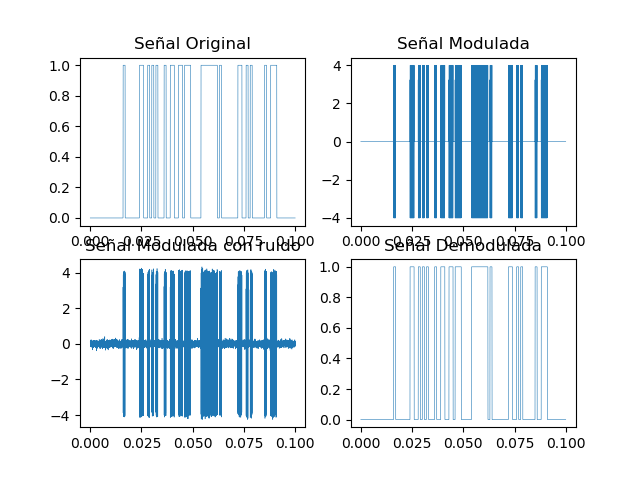
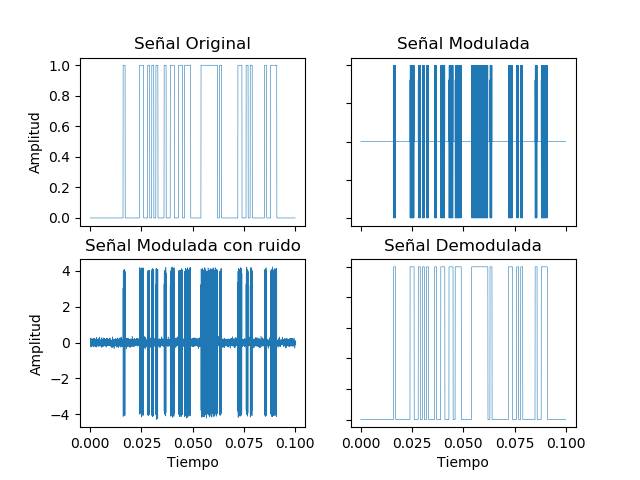
plot

diff --git a/lab4.py b/lab4.py
@@ -18,6 +18,7 @@ from scipy.fftpack import fft, ifft, fftshift
 import warnings 
 from scipy import integrate
 from math import pi
+from matplotlib.ticker import NullFormatter
 warnings.filterwarnings('ignore')
 
 
@@ -146,20 +147,45 @@ def graphAll(binarySignal,time2,modulated,demodulated,modulatedWithNoise,datos):
 	graph4_x, graph4_y = transformData(demodulated,bp,datos)
 	graph4.append(graph4_x)
 	graph4.append(graph4_y)
-
-
+	"""
+	plt.figure(1)
 	plt.subplot(221)
+	plt.xlabel("Tiempo")
+	plt.ylabel("Amplitud")
 	plt.title("Señal Original")
 	plt.plot(graph1[0][:datos],graph1[1][:datos],linewidth=0.4)
 	plt.subplot(222)
+	plt.xlabel("Tiempo")
+	plt.ylabel("Amplitud")
 	plt.title("Señal Modulada")
 	plt.plot(graph2[0][:datos],graph2[1][:datos],linewidth=0.4)
 	plt.subplot(223)
+	plt.xlabel("Tiempo")
+	plt.ylabel("Amplitud")
 	plt.title("Señal Modulada con ruido")
 	plt.plot(graph3[0][:datos],graph3[1][:datos],linewidth=0.4)
 	plt.subplot(224)
+	plt.xlabel("Tiempo")
+	plt.ylabel("Amplitud")
 	plt.title("Señal Demodulada")
 	plt.plot(graph4[0][:datos],graph4[1][:datos],linewidth=0.4)
+	plt.gca().yaxis.set_minor_formatter(NullFormatter())
+	plt.subplots_adjust(top=0.92, bottom=0.08, left=0.10, right=0.95, hspace=0.25, wspace=0.35)
+	"""
+	f, axarr = plt.subplots(2, 2)
+	axarr[0, 0].plot(graph1[0][:datos], graph1[1][:datos],linewidth=0.4)
+	axarr[0, 0].set_title('Señal Original')
+	axarr[0, 1].plot(graph2[0][:datos], graph2[1][:datos],linewidth=0.4)
+	axarr[0, 1].set_title('Señal Modulada')
+	axarr[1, 0].plot(graph3[0][:datos], graph3[1][:datos],linewidth=0.4 )
+	axarr[1, 0].set_title('Señal Modulada con ruido')
+	axarr[1, 1].plot(graph4[0][:datos], graph4[1][:datos],linewidth=0.4)
+	axarr[1, 1].set_title('Señal Demodulada')
+	for ax in axarr.flat:
+	    ax.set(xlabel='Tiempo', ylabel='Amplitud')
+	# Hide x labels and tick labels for top plots and y ticks for right plots.
+	for ax in axarr.flat:
+	    ax.label_outer()
 	savefig("figura")
 	plt.show()
 
